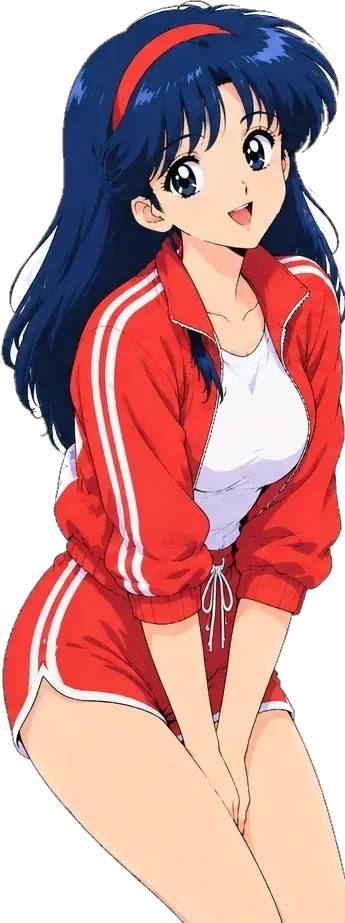
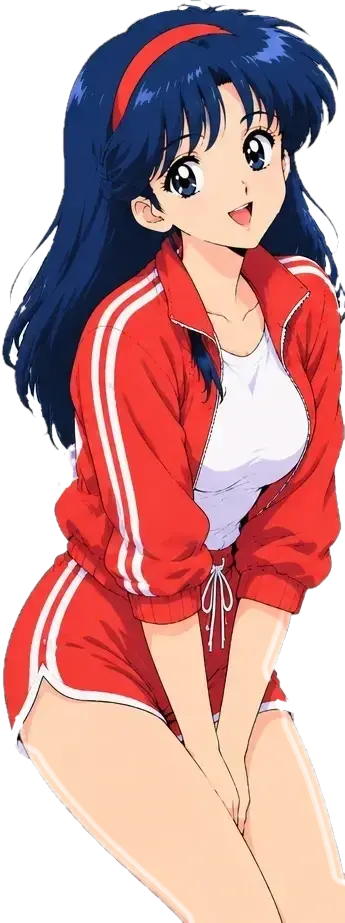
dating-sim: remove white fringe on portraits, drop sway/hop motion
Claude-Session: https://claude.ai/code/session_01Sc7mq8b2kN4wSY8EbV5Euc

diff --git a/dating-sim/index.html b/dating-sim/index.html
@@ -64,12 +64,9 @@
 
 
       .title-cast { position: absolute; left: 0; right: 0; top: 6%; height: 62%; display: flex; justify-content: center; align-items: flex-end; pointer-events: none; }
-      .title-cast img { height: 100%; width: auto; margin: 0 -3.5%; filter: drop-shadow(0 10px 18px rgba(0,0,0,0.4)); animation: castFloat 4.2s ease-in-out infinite; }
+      .title-cast img { height: 100%; width: auto; margin: 0 -3.5%; filter: drop-shadow(0 10px 18px rgba(0,0,0,0.4)); }
       .title-cast img:nth-child(odd) { height: 94%; }
-      @keyframes castFloat { 0%,100% { transform: translateY(0); } 50% { transform: translateY(-8px); } }
-      .title-petals span { position: absolute; top: -20px; width: 9px; height: 12px; border-radius: 80% 0 80% 0; background: rgba(255, 190, 215, 0.75); animation: petalFall linear infinite; pointer-events: none; }
-      @keyframes petalFall { 0% { transform: translate(0, 0) rotate(0deg); opacity: 0; } 10% { opacity: 1; } 100% { transform: translate(60px, 620px) rotate(360deg); opacity: 0.2; } }
-      .title-wrap { background: linear-gradient(180deg, rgba(20,12,34,0) 0%, rgba(20,12,34,0) 58%, rgba(20,12,34,0.88) 78%); }
+      .vn-panel.title-wrap { background: linear-gradient(180deg, rgba(20,12,34,0) 0%, rgba(20,12,34,0) 58%, rgba(20,12,34,0.88) 78%); }
       .vn-panel {
         position: absolute;
         left: 0;
@@ -173,42 +170,15 @@
         margin-top: 0.6rem;
       }
 
-      /* --- portrait 연출: 등장, 숨쉬기, 선택 반응 --- */
-      .vn-portrait img {
-        transform-origin: 50% 100%;
-        animation: vn-breathe 3.6s ease-in-out infinite;
-      }
-      .vn-portrait.enter img {
-        animation: vn-enter 0.45s ease-out both, vn-breathe 3.6s ease-in-out 0.45s infinite;
-      }
+      /* --- portrait 연출: 흔들림 없이 부드러운 등장 + 선택 반응(색감만) --- */
+      .vn-portrait.enter img { animation: vn-enter 0.35s ease-out both; }
       .vn-portrait.happy {
         filter: drop-shadow(0 12px 22px rgba(0, 0, 0, 0.35)) drop-shadow(0 0 18px rgba(255, 143, 171, 0.55));
       }
-      .vn-portrait.happy img {
-        animation: vn-hop 0.55s ease-out both, vn-breathe 3.6s ease-in-out 0.55s infinite;
-      }
-      .vn-portrait.meh img {
-        animation: vn-droop 0.6s ease-out both;
-        filter: saturate(0.82) brightness(0.94);
-      }
-      @keyframes vn-breathe {
-        0%, 100% { transform: scale(1, 1); }
-        50% { transform: scale(1.004, 1.012); }
-      }
+      .vn-portrait.meh img { filter: saturate(0.82) brightness(0.94); }
       @keyframes vn-enter {
-        from { transform: translateY(5%); opacity: 0; }
-        to { transform: translateY(0); opacity: 1; }
-      }
-      @keyframes vn-hop {
-        0% { transform: translateY(0) scale(1, 1); }
-        30% { transform: translateY(-3.2%) scale(0.99, 1.02); }
-        55% { transform: translateY(0) scale(1.012, 0.985); }
-        75% { transform: translateY(-1.2%) scale(1, 1.006); }
-        100% { transform: translateY(0) scale(1, 1); }
-      }
-      @keyframes vn-droop {
-        0% { transform: rotate(0) translateY(0); }
-        100% { transform: rotate(-1.4deg) translateY(0.8%); }
+        from { opacity: 0; }
+        to { opacity: 1; }
       }
       .vn-fx {
         position: absolute;
@@ -256,7 +226,7 @@
         cursor: pointer;
       }
       @media (prefers-reduced-motion: reduce) {
-        .vn-portrait img, .vn-fx span, .title-cast img, .title-petals span { animation: none !important; }
+        .vn-fx span { animation: none !important; }
       }
     </style>
   </head>

diff --git a/dating-sim/src/main.js b/dating-sim/src/main.js
@@ -651,9 +651,8 @@ function render() {
     app.innerHTML = `
       <div class="vn-bg" id="bg"></div>
       <div class="title-cast">
-        ${CHARACTERS.map((c, i) => `<img src="${PORTRAIT_IMAGES[c.id].soft}" alt="${c.name}" style="animation-delay:${i * -0.9}s" />`).join('')}
+        ${CHARACTERS.map((c, i) => `<img src="${PORTRAIT_IMAGES[c.id].soft}" alt="${c.name}" />`).join('')}
       </div>
-      <div class="title-petals">${Array.from({ length: 14 }, (_, i) => `<span style="left:${(i * 73) % 100}%;animation-delay:${-i * 0.7}s;animation-duration:${7 + (i % 5)}s"></span>`).join('')}</div>
       <div class="vn-panel title-wrap">
         <h1>동아리 연애 시뮬레이션</h1>
         <div class="subtitle">6일간의 선택이 엔딩을 결정합니다</div>
